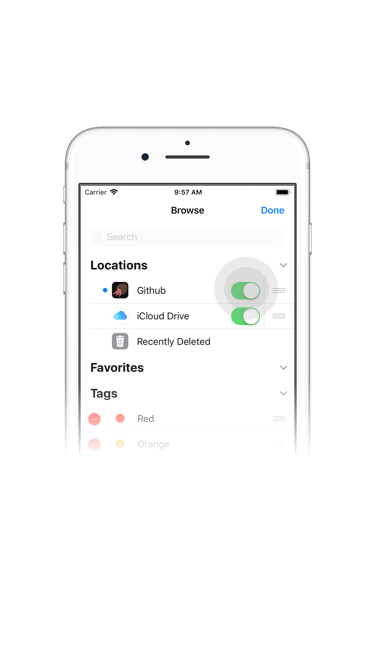
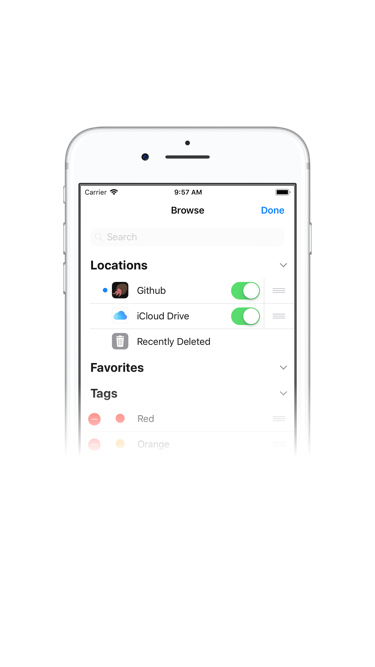
:art: show ripple mark at hint point

Changed region(s): [[0.5867, 0.3898, 0.7333, 0.4798]]

diff --git a/Sources/OctoEye/Controller/WalkThroughViewController.swift b/Sources/OctoEye/Controller/WalkThroughViewController.swift
@@ -11,6 +11,12 @@ import Ikemen
 import UIKit
 
 internal class WalkThroughViewController: UIViewController, EAIntroDelegate {
+    private var rippleView: SMRippleView?
+    private let ripplePoints: [UInt:CGPoint] = [
+        1: CGPoint(x: 257, y: 187),
+        2: CGPoint(x: 224, y: 267)
+    ]
+
     override func viewDidLoad() {
         super.viewDidLoad()
 
@@ -37,7 +43,7 @@ internal class WalkThroughViewController: UIViewController, EAIntroDelegate {
 
         view.backgroundColor = UIColor.white
         let introView = EAIntroView(frame: view.frame, andPages: [page1, page2, page3])
-        introView?.contentMode = .center
+        introView?.bgViewContentMode = .center
         introView?.skipButton.setTitleColor(UIColor.black, for: .normal)
         introView?.pageControl.currentPageIndicatorTintColor = #colorLiteral(red: 0, green: 0, blue: 0, alpha: 1)
         introView?.pageControl.pageIndicatorTintColor = #colorLiteral(red: 0.6642268896, green: 0.6642268896, blue: 0.6642268896, alpha: 1)
@@ -62,5 +68,38 @@ internal class WalkThroughViewController: UIViewController, EAIntroDelegate {
         let viewController = LoginViewController()
         viewController.modalTransitionStyle = .crossDissolve
         present(viewController, animated: true) {}
+    }
+
+    // swiftlint:disable:next implicitly_unwrapped_optional
+    func intro(_ introView: EAIntroView!, pageAppeared page: EAIntroPage!, with pageIndex: UInt) {
+        NSLog("pageAppered")
+        self.rippleView?.stopAnimation()
+        self.rippleView?.removeFromSuperview()
+
+        guard let point = hintPoint(introView, pageIndex: pageIndex) else {
+            return
+        }
+        let v = SMRippleView(frame: CGRect(origin: point,
+                                           size: CGSize(width: 44, height: 44)),
+                             color: #colorLiteral(red: 0.3450980392, green: 0.3450980392, blue: 0.3450980392, alpha: 0.2),
+                             interval: 2,
+                             duration: 4)
+        view.addSubview(v)
+
+        rippleView = v
+    }
+
+    private func hintPoint(_ introView: EAIntroView, pageIndex: UInt) -> CGPoint? {
+        guard let point = ripplePoints[pageIndex] else {
+            return nil
+        }
+        guard let page = introView.pages[Int(pageIndex)] as? EAIntroPage else {
+            return nil
+        }
+        let parentSize = view.bounds.size
+        let imageSize = page.bgImage.size
+        return point.applying(
+            CGAffineTransform(translationX: parentSize.width / 2 - imageSize.width / 2,
+                              y: parentSize.height / 2 - imageSize.height / 2))
     }
 }
